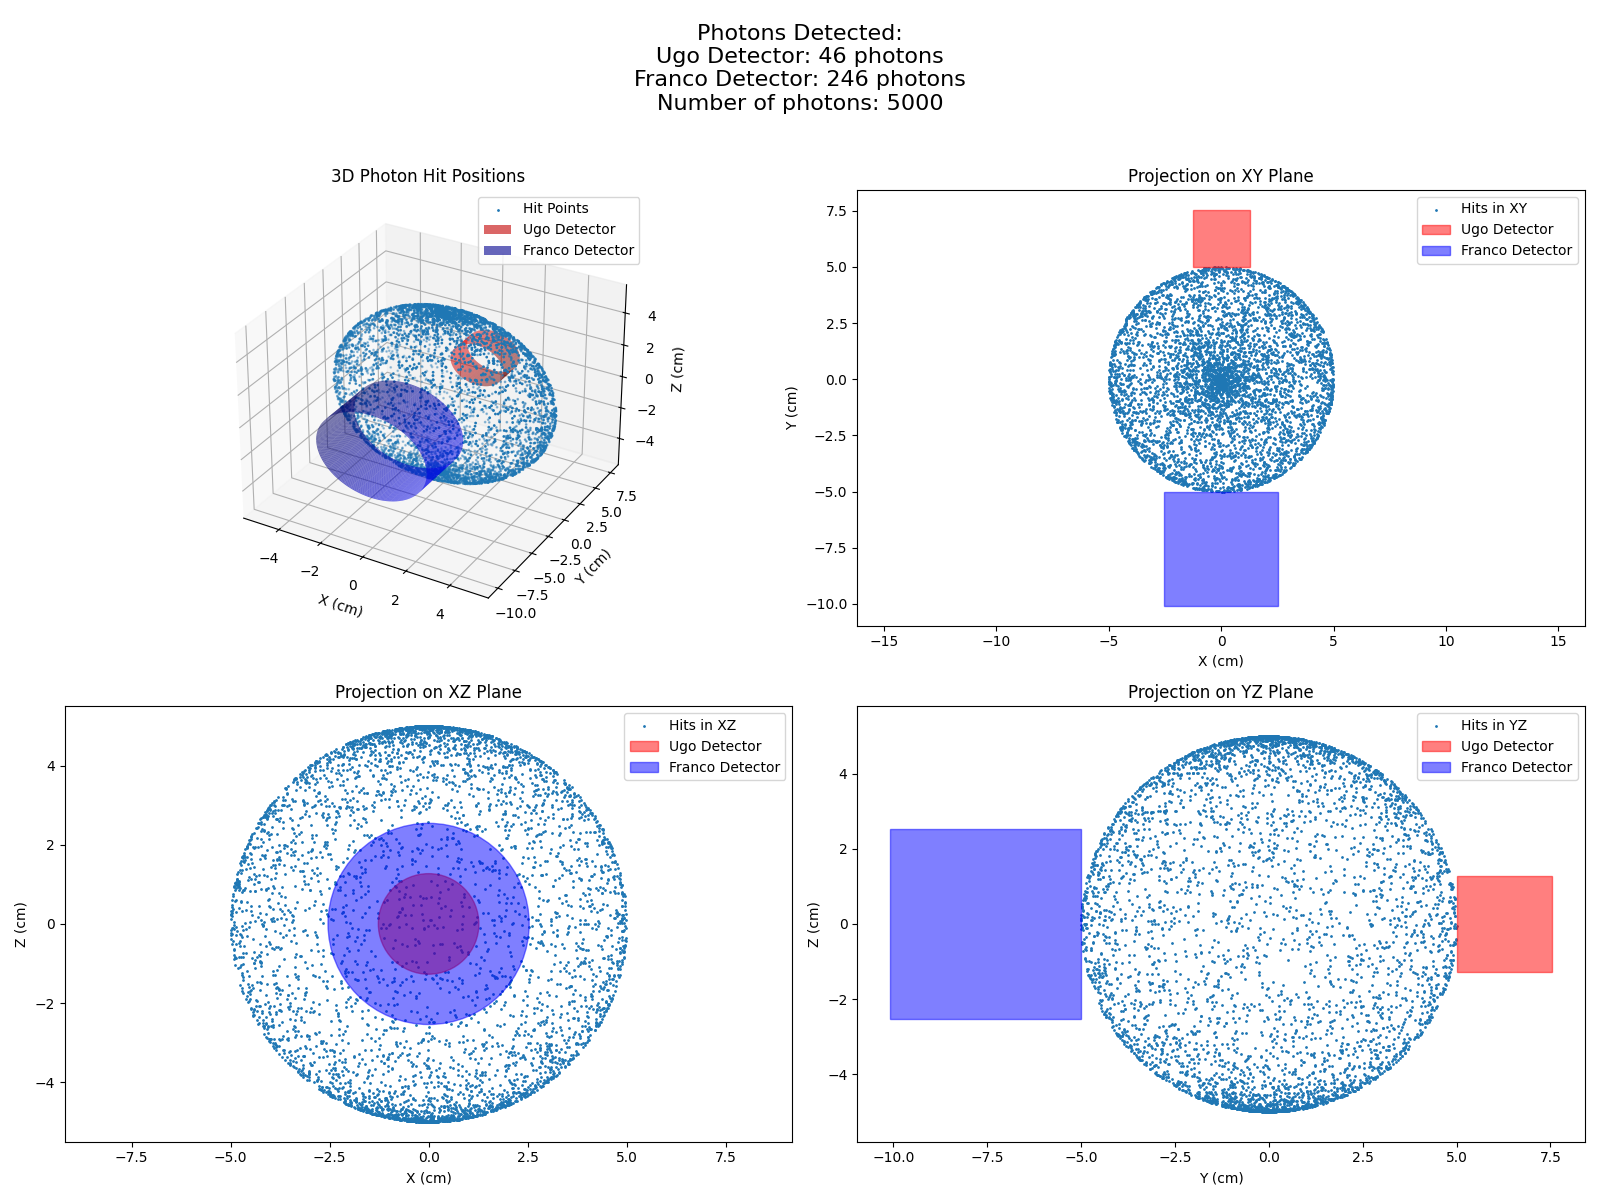
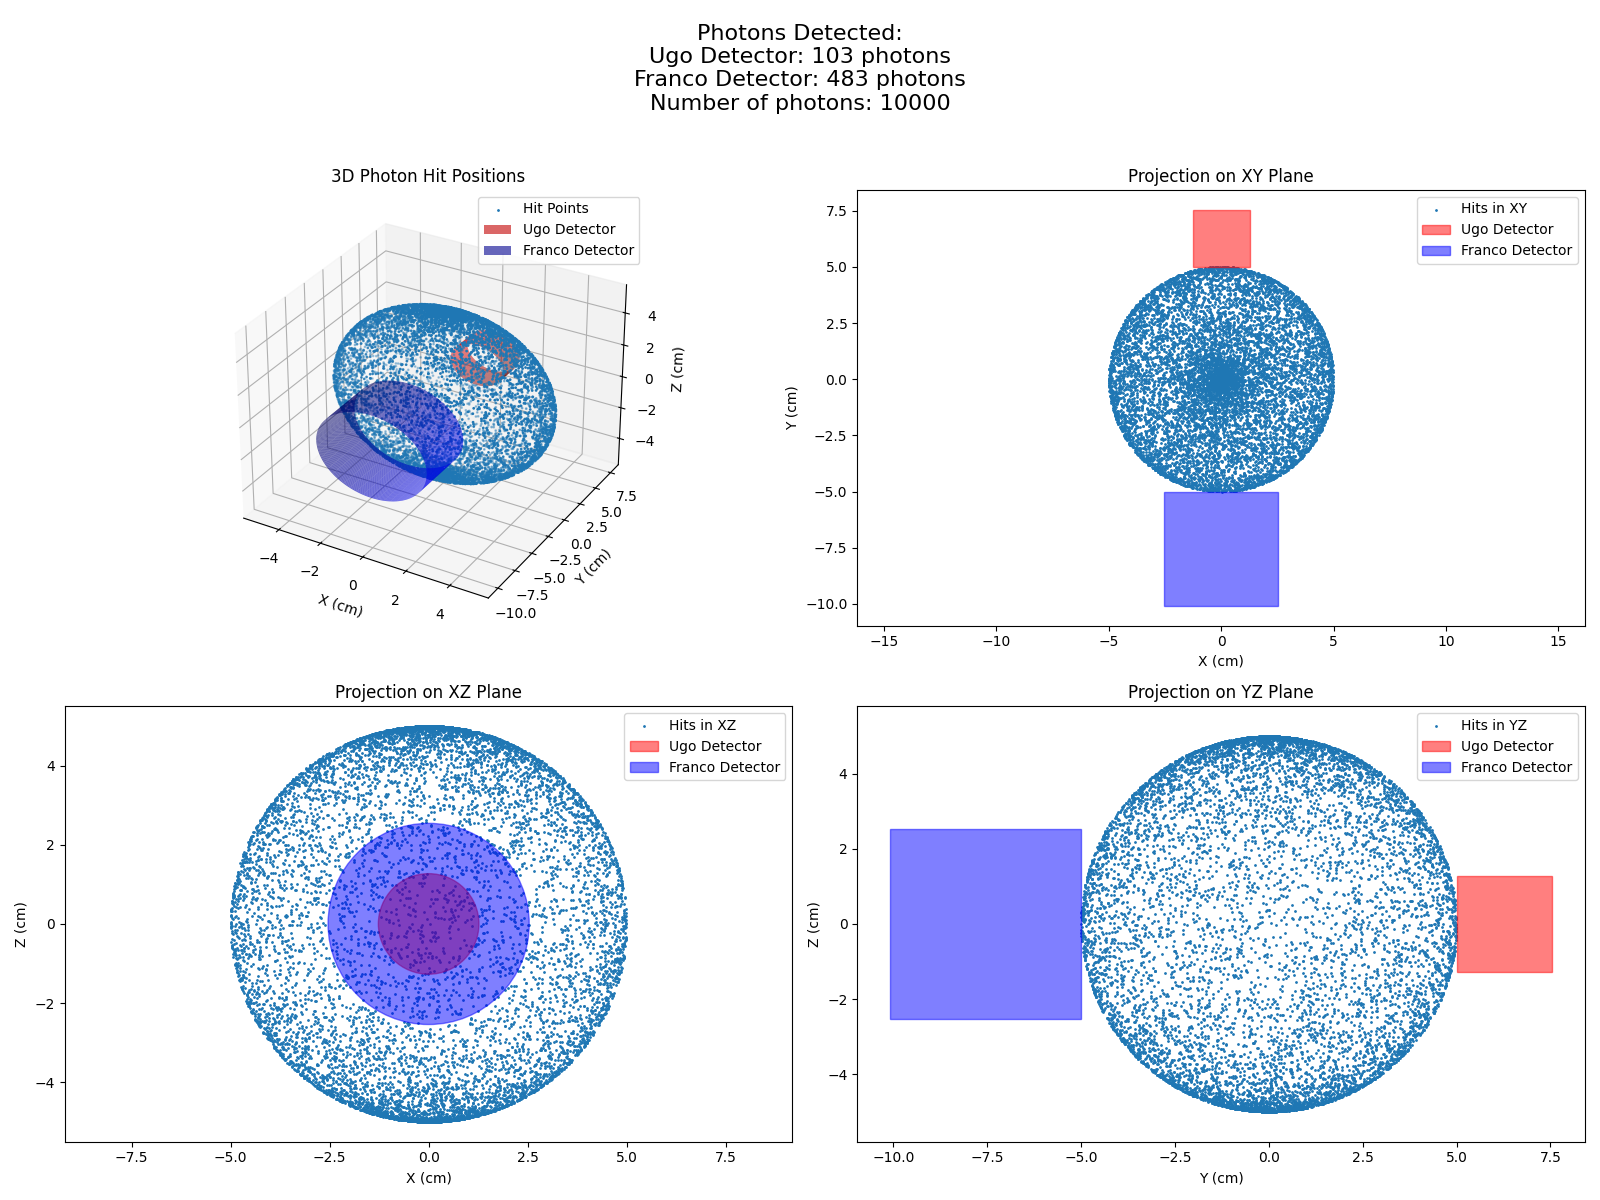
updates

diff --git a/Simulation/lab_simulation.py b/Simulation/lab_simulation.py
@@ -1,12 +1,46 @@
 import geometric_simulation as gs
+import numpy as np
+import matplotlib.pyplot as plt
 
 path_file = "/mnt/c/Users/User/Desktop/info/Compton/Simulation/"
 
 activity = 130000  # Photons per second
-n_photons = 5000  # Number of photons simulated for visualization
+n_photons = 10000  # Number of photons simulated for visualization
 
 # Generate random directions
 directions = gs.random_directions(n_photons)
 
 # # Visualize hits, projections, and detection counts for Ugo and Franco detectors
 gs.visualize_coincidence(path_file + "coincidence.png", directions)
+
+n_tries = 1000
+n_photons = 1000000
+distance = 5
+ugo_hits = []
+franco_hits = []
+
+for i in range(n_tries):
+    directions = gs.random_directions(n_photons)
+    hit_points = np.array([gs.hit_position(dir, distance) for dir in directions])
+    ugo_hits.append(gs.is_in_detector(hit_points, "ugo"))
+    franco_hits.append(gs.is_in_detector(hit_points, "franco"))
+
+plt.figure(figsize=(12, 6))
+
+# Histogram for Ugo hits
+plt.subplot(1, 2, 1)
+plt.hist(ugo_hits, bins=200, color='blue', alpha=0.7, edgecolor='blue')
+plt.title("Histogram of Hits in Ugo Detector")
+plt.xlabel("Number of Hits")
+plt.ylabel("Frequency")
+
+# Histogram for Franco hits
+plt.subplot(1, 2, 2)
+plt.hist(franco_hits, bins=200, color='orange', alpha=0.7, edgecolor='orange')
+plt.title("Histogram of Hits in Franco Detector")
+plt.xlabel("Number of Hits")
+plt.ylabel("Frequency")
+
+# Show the histograms
+plt.tight_layout()
+plt.savefig(path_file + "histograms.png")

diff --git a/Simulation/geometric_simulation.py b/Simulation/geometric_simulation.py
@@ -33,22 +33,20 @@ def random_directions(n): # n = number of photons
     return np.vstack((x, y, z)).T
 
 # Function to calculate hit position
-def hit_position(source_pos, direction, distance):
+def hit_position(direction, distance, source_pos=source_position):
     x = source_pos[0] + direction[0] * distance
     y = source_pos[1] + direction[1] * distance
     z = source_pos[2] + direction[2] * distance
     return np.array([x, y, z])
 
 # Function to check if a photon is within a detector's volume
-def is_in_detector(hit_points, detector, source_pos):  
+def is_in_detector(hit_points, detector, source_pos=source_position):  
     if detector == "ugo":
         detector_pos = ugo_position
         detector_radius = detector_ugo_radius
-        detector_width = detector_ugo_width
     elif detector == "franco":
         detector_pos = franco_position
         detector_radius = detector_franco_radius
-        detector_width = detector_franco_width
 
     hits = 0
 
@@ -146,7 +144,7 @@ def visualize_coincidence(fileNamePNG, directions, source_pos= source_position, 
     franco_distance = norm(franco_pos, source_position)
     
     # Calculate hit positions
-    hit_points = [hit_position(source_position, dir, ugo_distance) for dir in directions]
+    hit_points = [hit_position(dir, ugo_distance) for dir in directions]
     hit_points = np.array(hit_points)
     
     # Count photons detected by each detector
